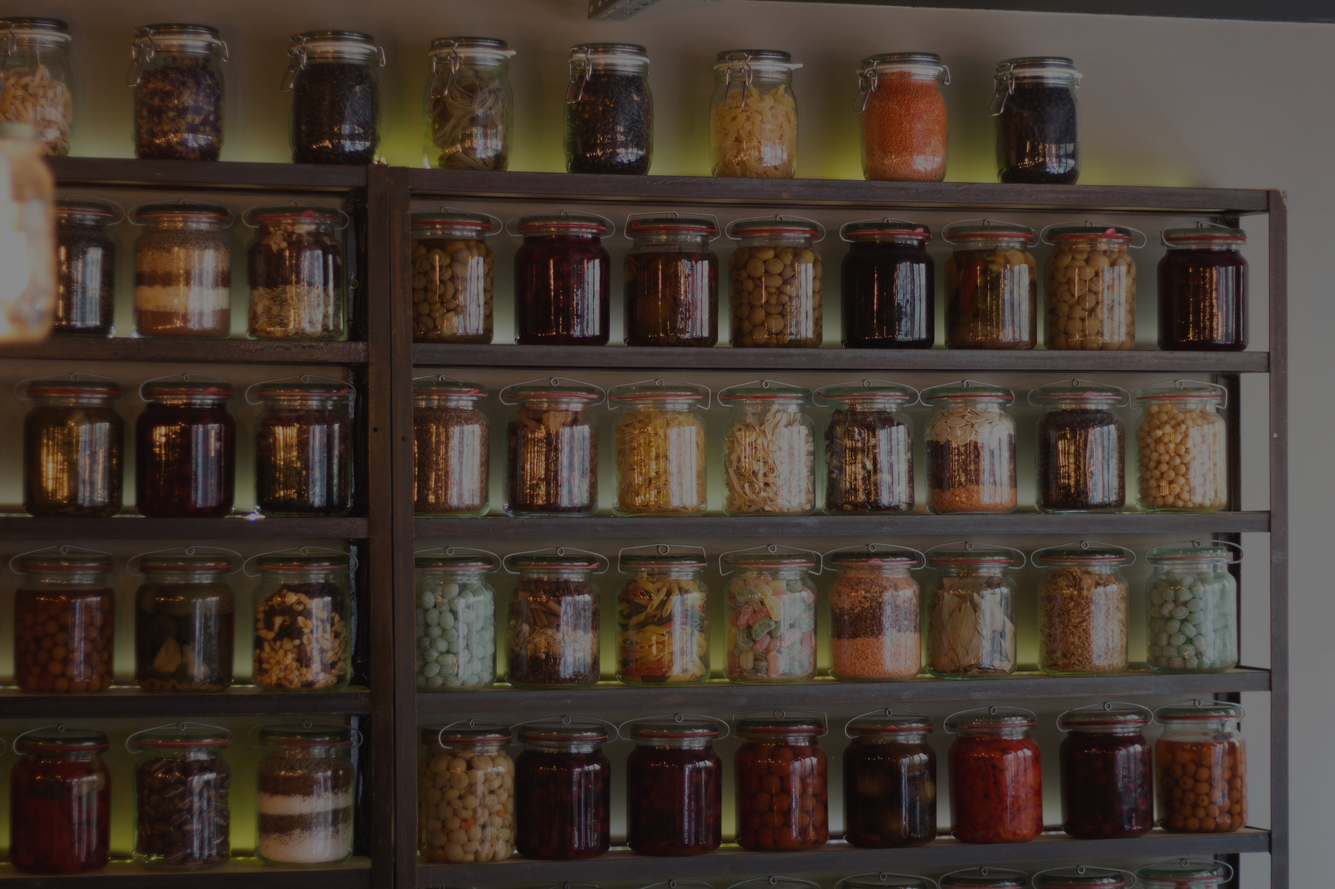
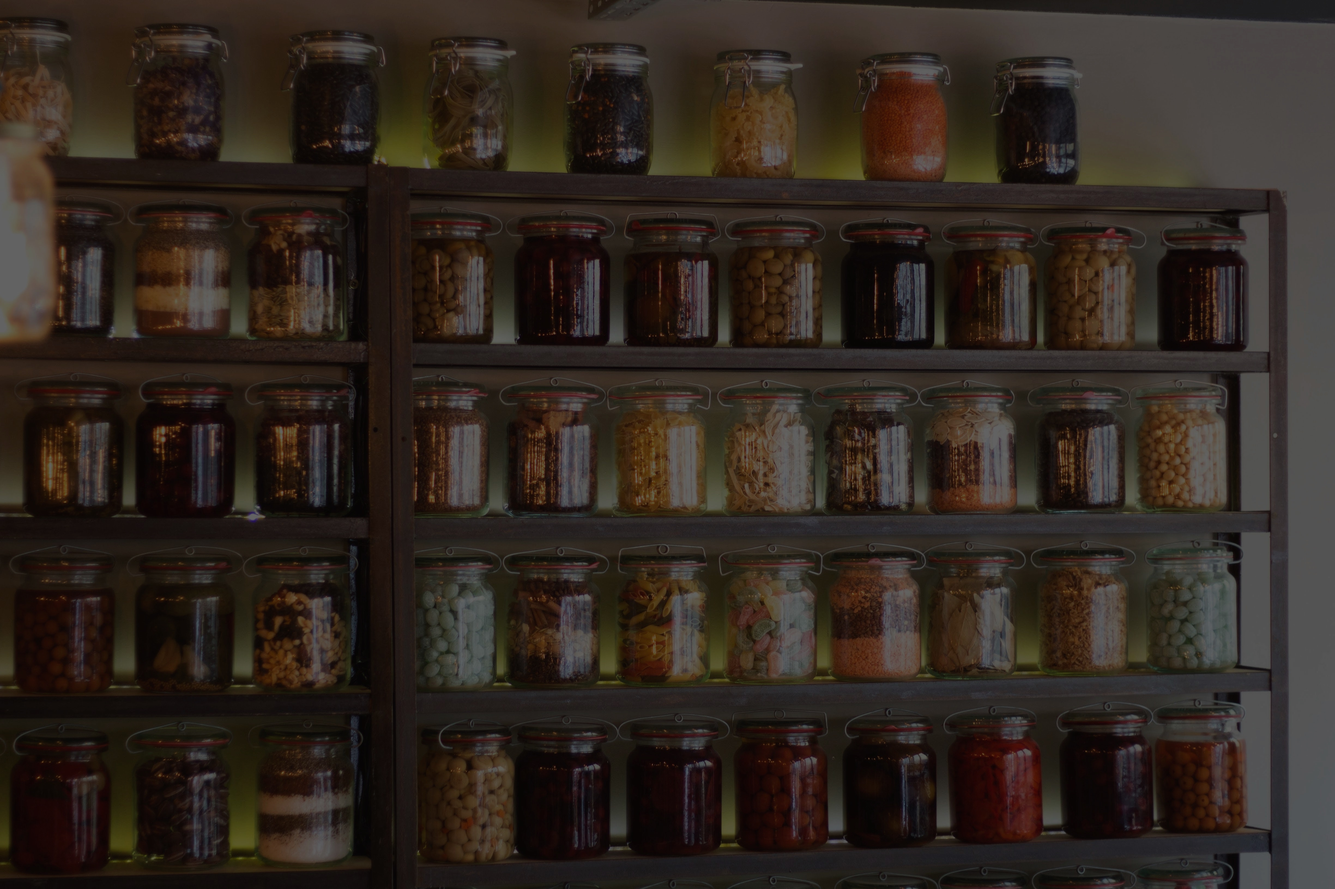
Styled text and spacing

diff --git a/css/main.css b/css/main.css
@@ -100,12 +100,6 @@ textarea {
   --padding-small: calc(var(--padding-normal) * .5);
 }
 
-.darken-overlay div {
-  width: 100%;
-  height: 100%;
-  background-color: rgba(0, 0, 0, 0.5);
-}
-
 body {
   background: #fffdf3ff;
   color: var(--clr-dark);
@@ -126,7 +120,7 @@ ul {
   /* overrides default padding on lists */
 }
 
-/* ---- Layout---- */
+/* ---- Layout & Typograph ---- */
 
 .content-container {
   display: flex;
@@ -137,15 +131,46 @@ ul {
 
 section {
   padding: var(--padding-normal);
+  text-align: center;
 }
 
-/* ---- Typography ---- */
+.section__subheader {
+  font-size: 1rem;
+  font-family: var(--ff-accent);
+}
+
+.section__header {
+  font-size: 1.5rem;
+  padding-bottom: var(--padding-normal);
+}
+
+.content-item {
+  padding: var(--padding-small) 0;
+}
+
+.content-item__header {
+  padding-top: calc(var(--padding-small) * .75);
+}
+
+.content-item__subheader, .content-item__body {
+  font-weight: var(--fw-light);
+  /* Recipes section has different font-weight for __body */
+}
 
 .btn--accent {
   background-color: var(--clr-accent);
   color: var(--clr-light);
   border: 1px solid var(--clr-light);
   padding: var(--padding-small);
+  border-radius: .75rem;
+}
+
+.btn--transparent {
+  background-color: inherit;
+  color: var(--clr-accent);
+  border: .15rem solid var(--clr-accent);
+  padding: var(--padding-small);
+  border-radius: .75rem;
 }
 
 /* ==========================================================================
@@ -237,11 +262,10 @@ footer {
   background-size: cover;
   background-position: center;
   color: var(--clr-light);
-  padding: var(--padding-big);
+  text-align: left;
 }
 
-.hero__header,
-.hero__body {
+.hero__header, .hero__body {
   padding-bottom: var(--padding-small);
 }
 
@@ -254,7 +278,15 @@ footer {
   font-weight: var(--fw-light);
 }
 
+.hero-section button {
+  margin: var(--padding-normal) 0;
+}
+
 /* ----- Base Product Feature Section ---- */
+
+#product-feature-section .content-container {
+  text-align: left;
+}
 
 .content-item__product-link {
   text-decoration: none;
@@ -265,10 +297,41 @@ footer {
   width: 100%;
 }
 
+#product-feature-section button {
+  margin: var(--padding-normal);
+}
+
+/* ----- Base Reviews Section ---- */
+
+#reviews-section {
+  background-image: url(../img/jar-wall_dark.jpg);
+  background-size: cover;
+  background-position: center;
+  color: var(--clr-light);
+}
+
+#reviews-section .content-item {
+  text-align: center;
+  line-height: 1.6;
+}
+
 /* ----- Base Recipes Section ---- */
+
+#recipes-section {
+  background-color: var(--clr-primary);
+}
+
+#recipes-section .article-container {
+  text-align: left;
+}
 
 #recipes-section img {
   width: 100%;
+}
+
+#recipes-section .content-item__body {
+  font-weight: var(--fw-normal);
+  padding: var(--padding-small) 0;
 }
 
 .content-item__recipe-link {

diff --git a/index.html b/index.html
@@ -105,20 +105,20 @@
     </section> <!-- #reviews-section -->
 
     <section id="recipes-section">
-      <figure><img src="img/kelsey-chance-ZrhtQyGFG6s-unsplash.jpg" alt="Party with snack boards"></figure>
       <h2 class="section__subheader">Recipes</h2>
       <h3 class="section__header">Get Inspired</h3>
+      <figure><img src="img/heather-ford-8pWavjyk3Uc-unsplash.jpg" alt="Cabbage being cut"></figure>
       <div class="article-container">
         <article class="recipe-article content-item">
           <h4 class="content-item__header">Kimchi Pancake</h4>
           <p class="content-item__subheader">July 12, 2020</p>
-          <p class="content-item__body">Ingredients ½ cup kimchi, ¾ cup rice flour, 3 Tbsp neutral oil …</p>
+          <p class="content-item__body">Ingredients ½ cup kimchi, ¾ cup rice flour, 3 Tbsp neutral oil…</p>
           <p><a href="#" class="content-item__recipe-link">Read More</a> →</p>
         </article>
         <article class="recipe-article content-item">
           <h4 class="content-item__header">Party Snack Board</h4>
           <p class="content-item__subheader">March 25, 2020</p>
-          <p class="content-item__body">Ingredients Pickles, handful roasted nuts, gouda cheese, …</p>
+          <p class="content-item__body">Ingredients Pickles, handful roasted nuts, gouda cheese…</p>
           <p><a href="#" class="content-item__recipe-link">Read More</a> →</p>
         </article>
       </div> <!-- .content-container -->
